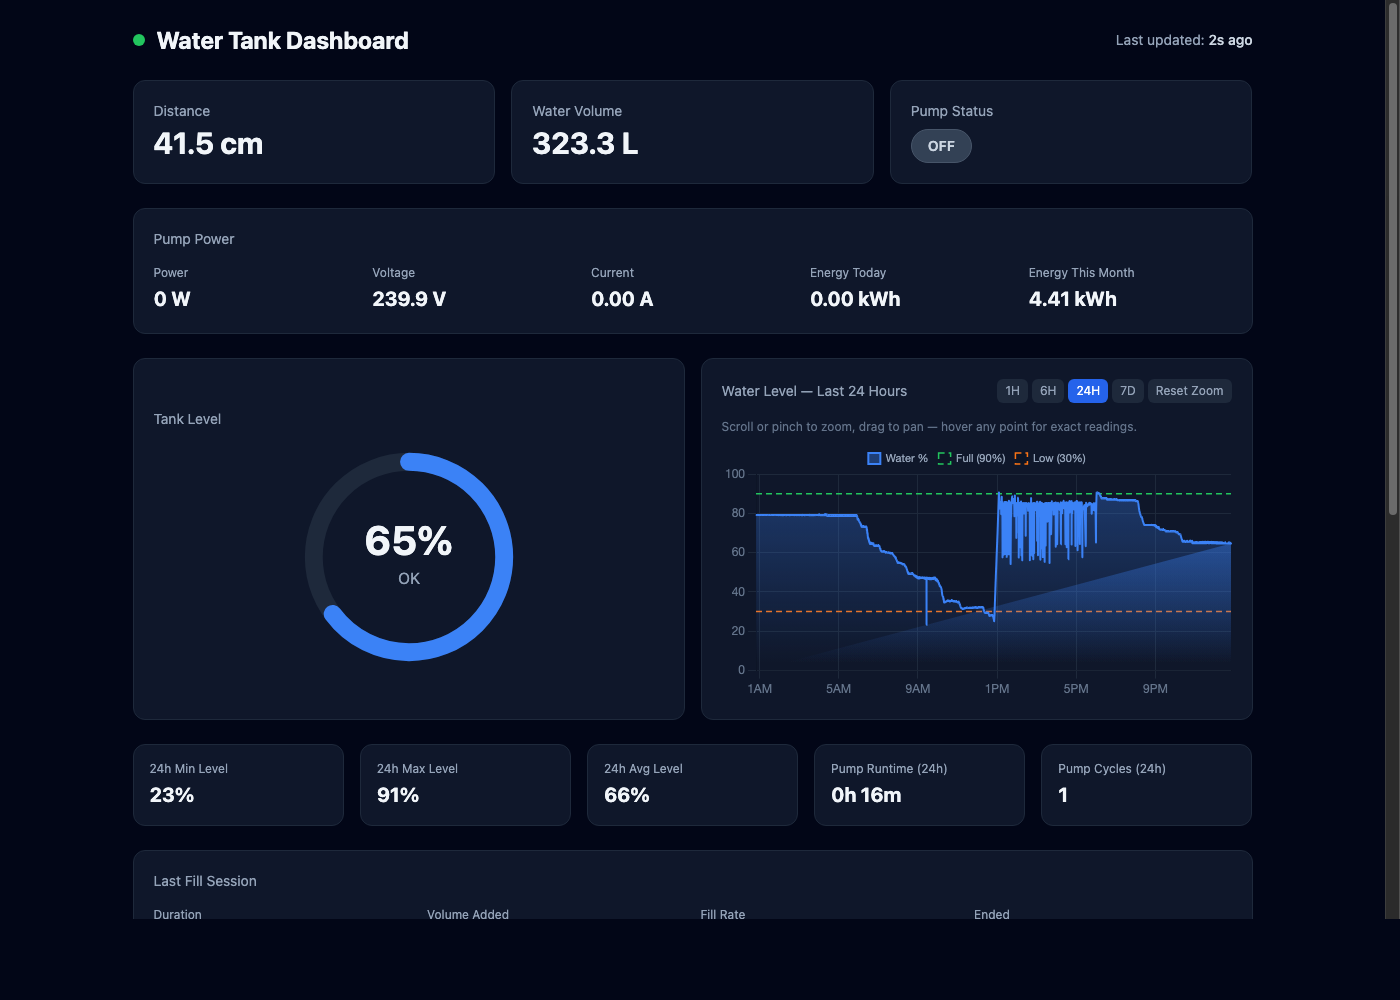
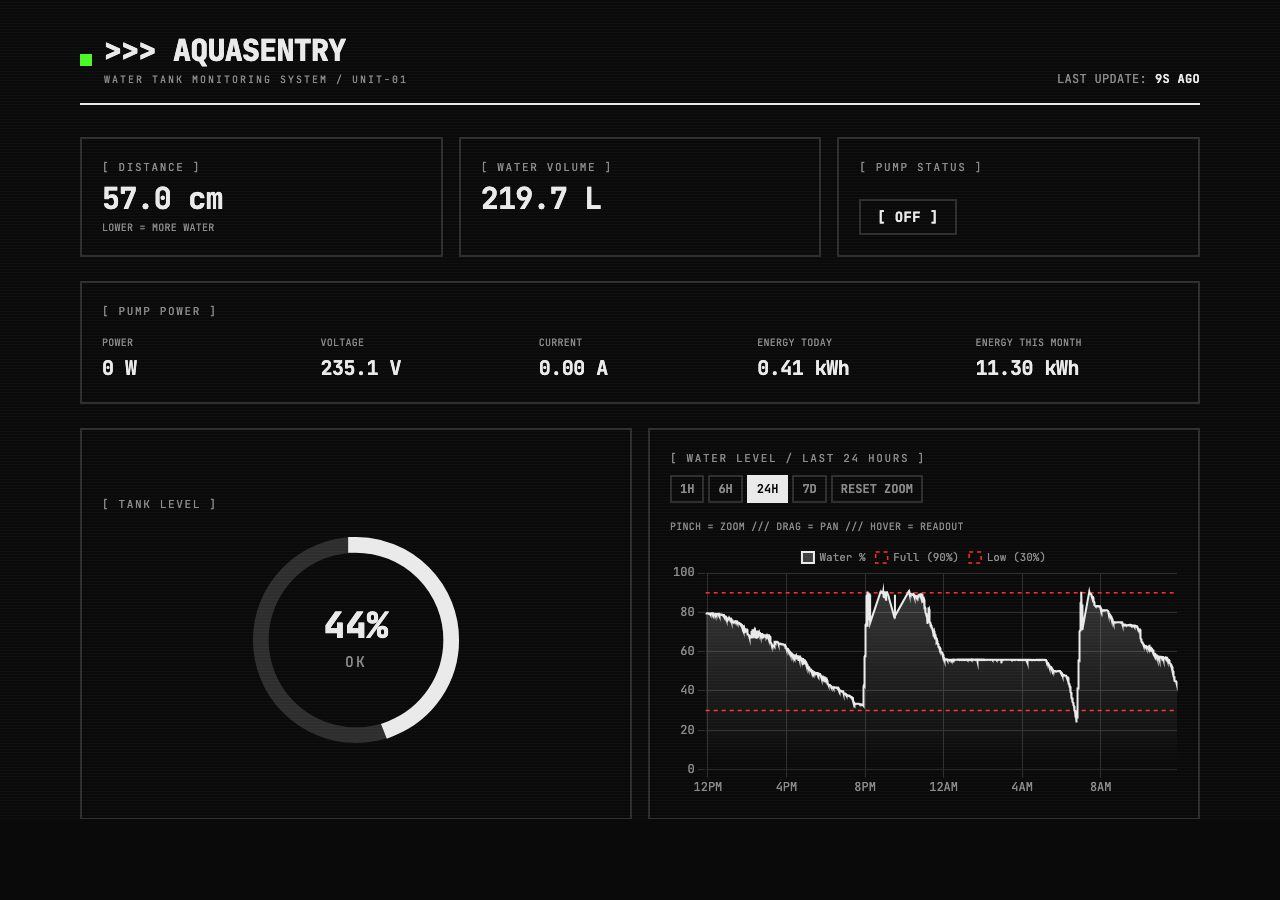
Update README screenshots for the tactical telemetry redesign

diff --git a/README.md b/README.md
@@ -5,7 +5,7 @@ A self-hosted water tank monitoring dashboard with automated pump control, built
 ![Dashboard overview](screenshots/dashboard-overview.png)
 
 <details>
-<summary>Full dashboard (charts, fill session, pump activity, audit log)</summary>
+<summary>Full dashboard (charts, fill session history, energy usage, pump activity, sensor uptime, audit log)</summary>
 
 ![Dashboard detail](screenshots/dashboard-detail.png)
 
